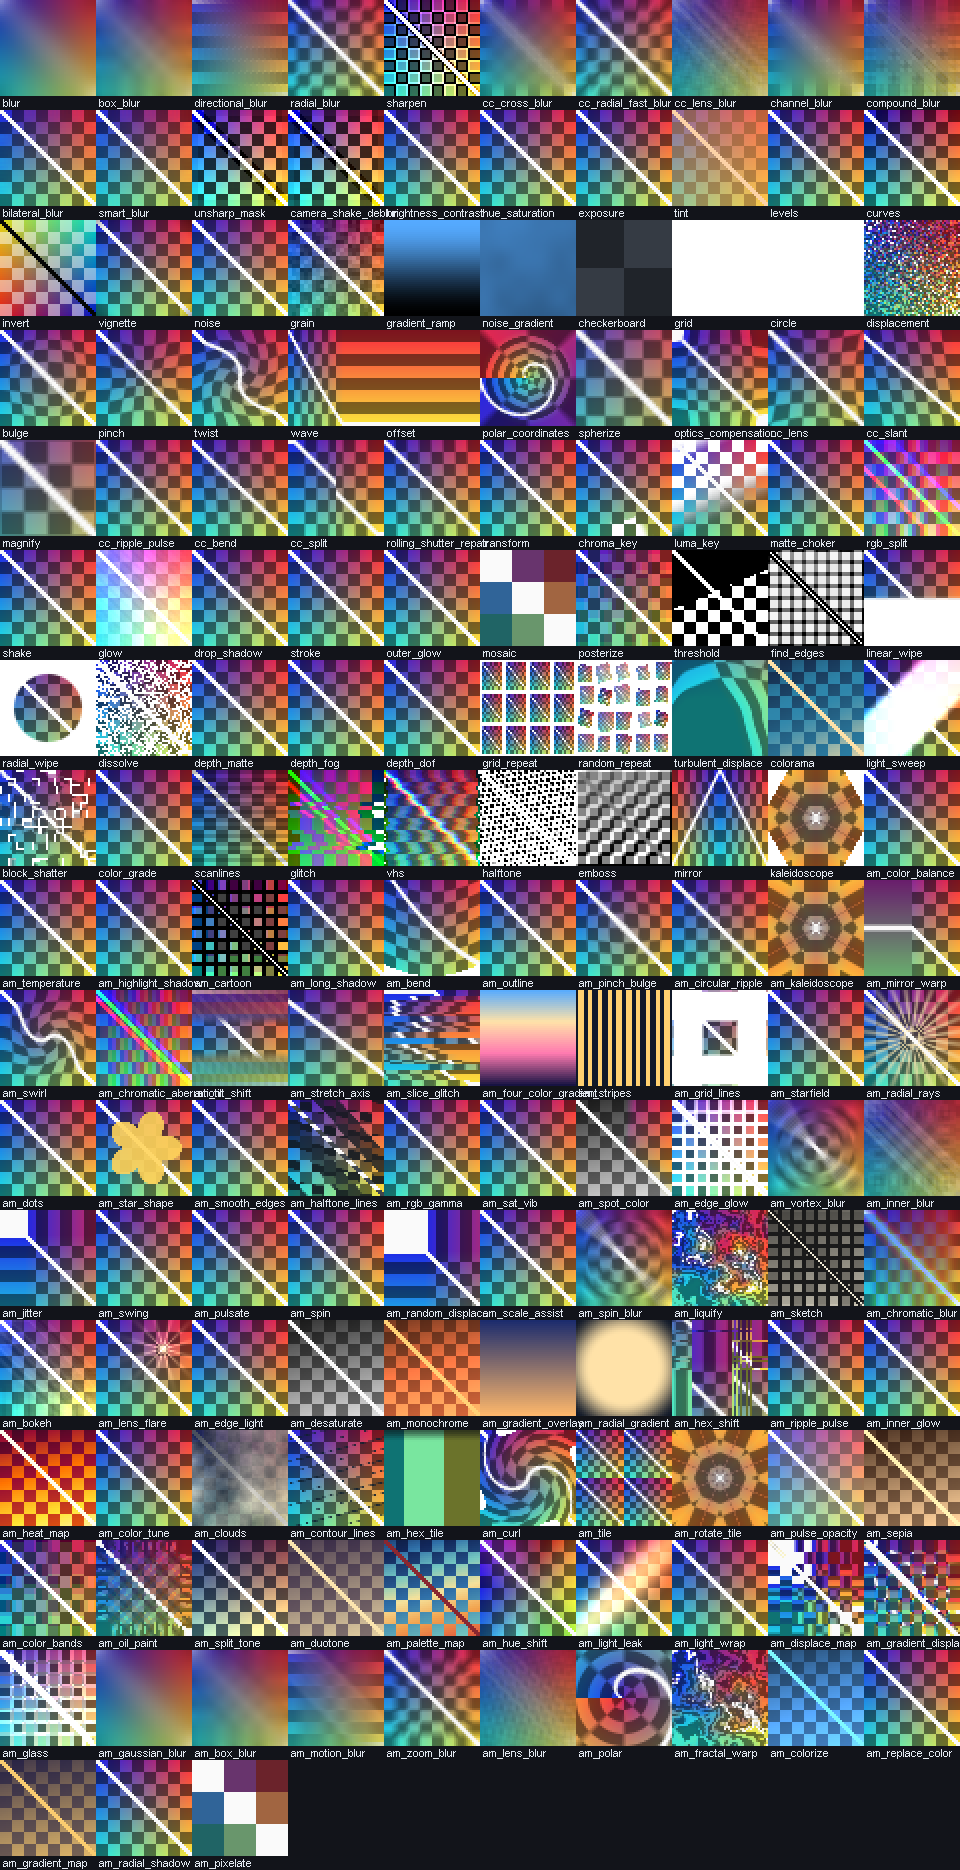
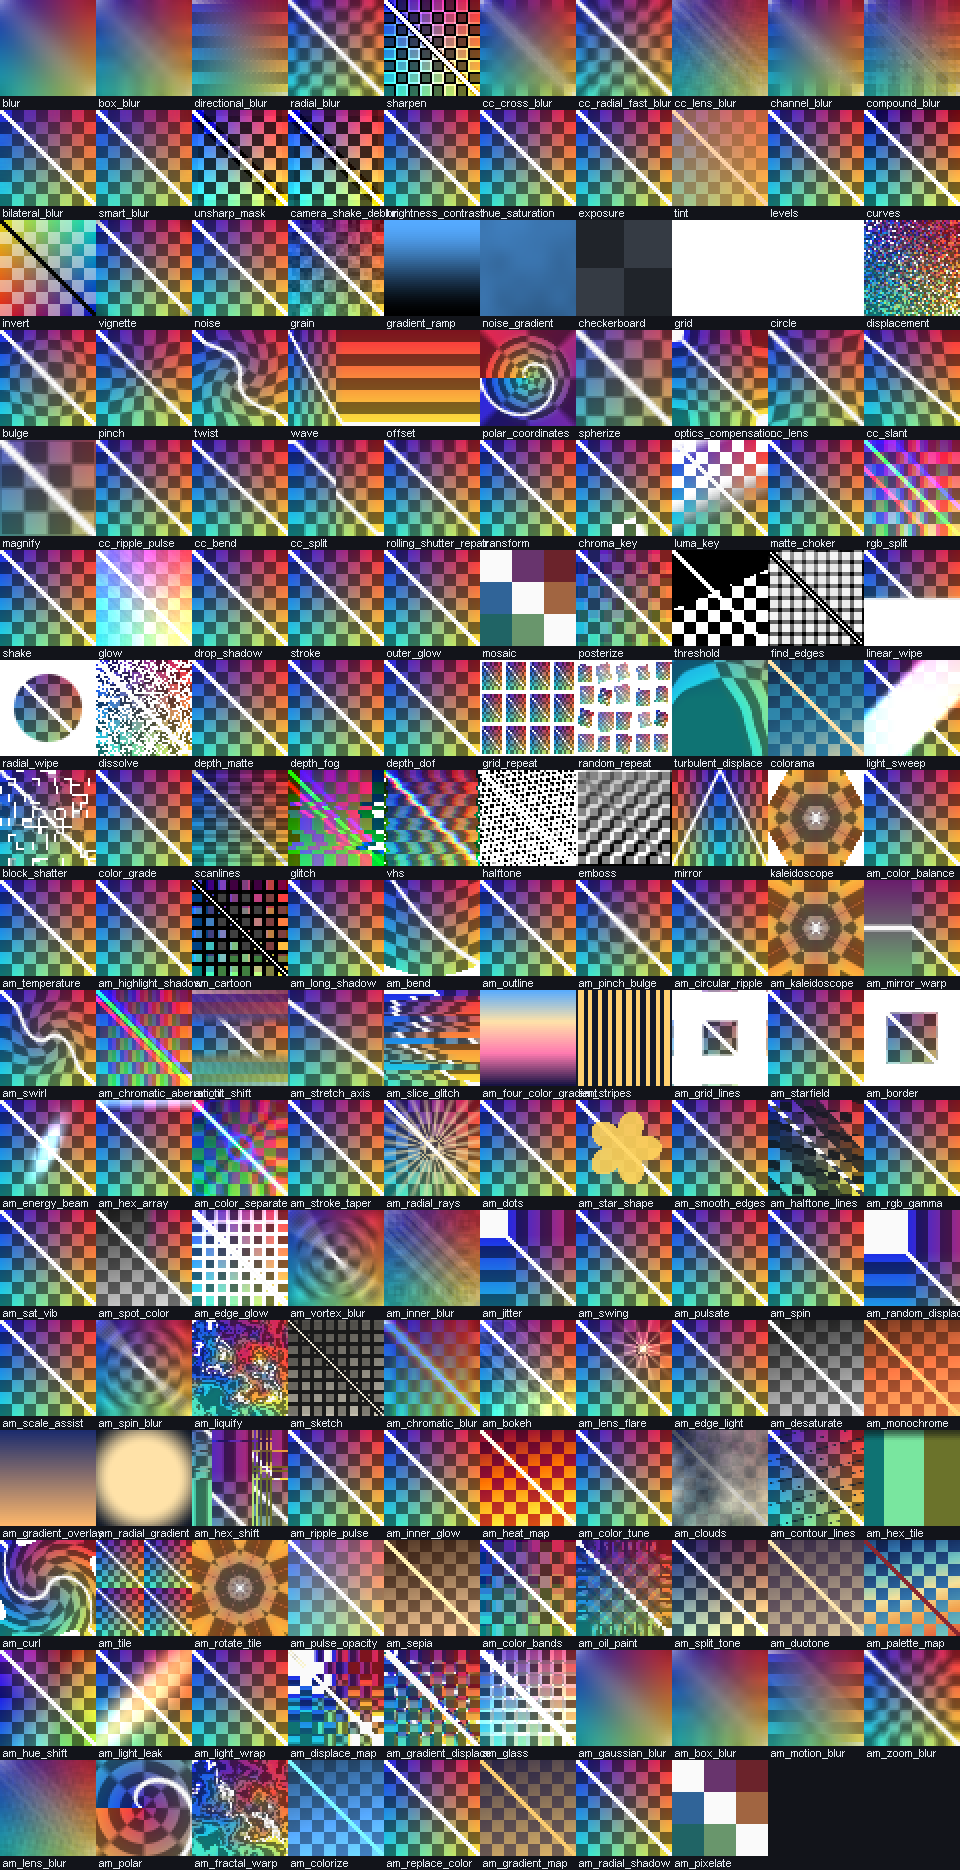
feat(0.45): borders, beams and arrays
- 边框 (width/feather colour border), 描边锥度 (tapered outline) under AM · 绘制.
- 能量束 (glowing beam), 六边形阵列 (hex grid glow) under AM · 生成.
- 彩色分离 (radial RGB split) under AM · 调色.
- 89 reference-compatible effects, all layer space, each with an identity value covered by
  ShaderCompileTest and AmEffectLibraryTest. 321 tests green.
- Release bbsae-0.45.jar (SHA-256 AB71FA4A8B667396710059DB6F4E90777FD7F0FF39B26B25B3BF268889F31AD3).

Changed region(s): [[0.0, 0.5273, 1.0, 1.0]]

diff --git a/src/main/java/dev/bbsae/comp/AmEffectLibrary.java b/src/main/java/dev/bbsae/comp/AmEffectLibrary.java
@@ -495,6 +495,114 @@ public final class AmEffectLibrary
             .p("alpha", "不透明度", 0F, 1F, 1F, 0.01F)
             .p("seed", "随机种子", 0F, 9999F, 0F, 1F));
 
+        add(new AmEffectDef("am_border", "边框", "AM · 绘制", """
+            void main()
+            {
+                vec2 luv = layerUv(vUv);
+                vec4 c = sampleLayer(luv);
+                vec2 px = luv * LayerSize;
+                float distX = min(px.x, LayerSize.x - px.x);
+                float distY = min(px.y, LayerSize.y - px.y);
+                float d = min(distX, distY);
+                float width = max(u_width, 0.0);
+                float feather = max(u_feather, 0.001);
+                float band = 1.0 - smoothstep(width - feather, width, d);
+                fragColor = vec4(mix(c.rgb, u_color.rgb, band * clamp(u_alpha, 0.0, 1.0)), c.a);
+            }
+            """, 0F, "width")
+            .p("width", "边框宽度", 0F, 200F, 12F, 0.5F)
+            .p("feather", "羽化", 0.001F, 50F, 1F, 0.1F)
+            .p("alpha", "不透明度", 0F, 1F, 1F, 0.01F)
+            .c("color", "边框颜色", 0xFFFFFFFF));
+
+        add(new AmEffectDef("am_energy_beam", "能量束", "AM · 生成", """
+            void main()
+            {
+                vec2 luv = layerUv(vUv);
+                vec4 c = sampleLayer(luv);
+                vec2 d = (luv - 0.5) * LayerSize;
+                float a = radians(u_angle);
+                float s = sin(a);
+                float co = cos(a);
+                vec2 rotated = vec2(co * d.x - s * d.y, s * d.x + co * d.y);
+                float offset = u_offset * LayerSize.y;
+                float width = max(u_width, 0.5);
+                float beam = exp(-pow((rotated.y - offset) / width, 2.0));
+                float ends = smoothstep(0.0, 0.15, abs(rotated.x) / max(LayerSize.x, 1.0));
+                float intensity = beam * (1.0 - ends) * clamp(u_intensity, 0.0, 4.0);
+                fragColor = vec4(clamp(c.rgb + u_color.rgb * intensity, 0.0, 1.0), c.a);
+            }
+            """, 0F, "intensity")
+            .p("angle", "角度", -180F, 180F, -25F, 1F)
+            .p("offset", "偏移", -1F, 1F, 0F, 0.01F)
+            .p("width", "宽度", 0.5F, 100F, 14F, 0.5F)
+            .p("intensity", "强度", 0F, 4F, 1.2F, 0.01F)
+            .c("color", "光束颜色", 0xFF7FD4FF));
+
+        add(new AmEffectDef("am_hex_array", "六边形阵列", "AM · 生成", """
+            void main()
+            {
+                vec2 luv = layerUv(vUv);
+                vec4 c = sampleLayer(luv);
+                vec2 spacing = vec2(1.0, 1.7320508) * max(u_size, 4.0);
+                vec2 p = luv * LayerSize / spacing;
+                vec2 a = mod(p, vec2(1.0, 1.7320508)) - vec2(0.5, 0.8660254);
+                vec2 b = mod(p + vec2(0.5, 0.0), vec2(1.0, 1.7320508)) - vec2(0.5, 0.8660254);
+                vec2 local = dot(a, a) < dot(b, b) ? a : b;
+                float edge = max(abs(local.x) / 0.5, abs(local.y) / 0.8660254);
+                float glow = smoothstep(1.0 - clamp(u_glow, 0.01, 1.0), 1.0, edge);
+                float intensity = glow * clamp(u_intensity, 0.0, 3.0);
+                fragColor = vec4(clamp(c.rgb + u_color.rgb * intensity, 0.0, 1.0), c.a);
+            }
+            """, 0F, "intensity")
+            .p("size", "六边形大小", 4F, 200F, 36F, 1F)
+            .p("glow", "线条宽度", 0.01F, 1F, 0.12F, 0.01F)
+            .p("intensity", "强度", 0F, 3F, 0.8F, 0.01F)
+            .c("color", "线条颜色", 0xFF7FE0FF));
+
+        add(new AmEffectDef("am_color_separate", "彩色分离", "AM · 调色", """
+            void main()
+            {
+                vec2 luv = layerUv(vUv);
+                vec2 center = vec2(u_center_x, u_center_y);
+                vec2 d = luv - center;
+                float dist = length(d);
+                vec2 dir = dist > 0.0001 ? d / dist : vec2(0.0);
+                vec2 offset = dir * (u_amount / max(LayerSize, vec2(1.0)));
+                vec4 c = sampleLayer(luv);
+                float r = sampleLayer(luv + offset).r;
+                float b = sampleLayer(luv - offset).b;
+                fragColor = vec4(r, c.g, b, c.a);
+            }
+            """, 0.5F, "amount")
+            .p("amount", "偏移（像素）", 0F, 60F, 6F, 0.1F)
+            .p("center_x", "中心 X", 0F, 1F, 0.5F, 0.01F)
+            .p("center_y", "中心 Y", 0F, 1F, 0.5F, 0.01F));
+
+        add(new AmEffectDef("am_stroke_taper", "描边锥度", "AM · 绘制", """
+            void main()
+            {
+                vec2 luv = layerUv(vUv);
+                vec4 c = sampleLayer(luv);
+                float widthPx = max(u_width * mix(1.0, 1.0 - clamp(u_taper, 0.0, 0.95), clamp(luv.y, 0.0, 1.0)), 0.0);
+                float ring = 0.0;
+
+                for (int i = 0; i < 12; i++)
+                {
+                    float a = float(i) * 0.5235988;
+                    vec2 offset = vec2(cos(a), sin(a)) * (widthPx / max(LayerSize, vec2(1.0)));
+                    ring = max(ring, sampleLayer(luv + offset).a);
+                }
+
+                float outline = clamp(ring - c.a, 0.0, 1.0) * clamp(u_alpha, 0.0, 1.0);
+                fragColor = vec4(mix(c.rgb, u_color.rgb, outline), clamp(c.a + outline, 0.0, 1.0));
+            }
+            """, 0F, "width")
+            .p("width", "宽度", 0F, 40F, 4F, 0.5F)
+            .p("taper", "锥度", 0F, 0.95F, 0.6F, 0.01F)
+            .p("alpha", "不透明度", 0F, 1F, 1F, 0.01F)
+            .c("color", "描边颜色", 0xFF222222));
+
         add(new AmEffectDef("am_radial_rays", "径向光线", "AM · 生成", """
             void main()
             {

diff --git a/src/test/java/dev/bbsae/comp/AmEffectLibraryTest.java b/src/test/java/dev/bbsae/comp/AmEffectLibraryTest.java
@@ -37,7 +37,7 @@ public class AmEffectLibraryTest
             assertTrue(definition.body.contains("fragColor"), "body writes no colour: " + definition.id);
         }
 
-        assertTrue(ids.size() >= 84, "the catalogue should have grown with the procedural batch");
+        assertTrue(ids.size() >= 89, "the catalogue should have grown with the border/beam batch");
     }
 
     @Test
@@ -140,6 +140,11 @@ public class AmEffectLibraryTest
         assertNeutral("am_star_shape", "alpha", 0F);
         assertNeutral("am_smooth_edges", "radius", 0F);
         assertNeutral("am_halftone_lines", "alpha", 0F);
+        assertNeutral("am_border", "width", 0F);
+        assertNeutral("am_energy_beam", "intensity", 0F);
+        assertNeutral("am_hex_array", "intensity", 0F);
+        assertNeutral("am_color_separate", "amount", 0F);
+        assertNeutral("am_stroke_taper", "width", 0F);
 
         CompEffect balance = CompEffectRegistry.create("am_color_balance", 1);
 

diff --git a/README.md b/README.md
@@ -110,15 +110,15 @@ export** without touching the `.dat` film format.
 
 ## Download / Install
 
-1. Download [`bbsae-0.44.jar`](https://github.com/zhongend/bbsae/releases/download/v0.44/bbsae-0.44.jar)
-   from the **v0.44** release (the asset is updated with each source push).
+1. Download [`bbsae-0.45.jar`](https://github.com/zhongend/bbsae/releases/download/v0.45/bbsae-0.45.jar)
+   from the **v0.45** release (the asset is updated with each source push).
 2. Install **Minecraft 1.20.1**, **Fabric Loader 0.16.14+**, **Fabric API 0.92.1+1.20.1** and
    **BBS FS 2.7-1.20.1**.
-3. Put `bbsae-0.44.jar` and the BBS FS jar into the game's `mods/` folder.
+3. Put `bbsae-0.45.jar` and the BBS FS jar into the game's `mods/` folder.
 4. Launch the game, open a film in BBS, select a replay, then use
    **Replay properties → Compositor → Open Film Compositor**.
 
[2 lines of base64/hex data omitted]
 
 ## Gallery
 
@@ -185,6 +185,14 @@ The compositor does not re-encode films or patch `.dat` files. BBS serializes a 
 `RegisterFrameOverlaysEvent` point. That means the same composition appears in BBS's preview and in
 its FFmpeg film export, and BBS keeps ownership of keyframes, undo, project storage and video
 encoding.
+
+## What's new in 0.45 — borders, beams and arrays
+
+- **边框**, **描边锥度** (`AM · 绘制`): width/feather border and a tapered outline.
+- **能量束**, **六边形阵列** (`AM · 生成`): glowing beam and hex grid glow.
+- **彩色分离** (`AM · 调色`): radial RGB split.
+- 89 reference-compatible effects; every body is in layer space with an identity value.
+- 321 tests green.
 
 ## What's new in 0.44 — procedural shapes and edge tools
 

diff --git a/docs/EFFECT-LIBRARY-PLAN.zh.md b/docs/EFFECT-LIBRARY-PLAN.zh.md
@@ -45,7 +45,7 @@
 新增三层，效果不再需要写进 `EffectRenderer` 的巨型 switch：
 
 - `comp/AmEffectDef`：id、显示名、分类、参数表（float/color）、`main()` 片段、零点参数。
-- `comp/AmEffectLibrary`：84 个效果的定义（色彩平衡、色温、高光与阴影、卡通、长阴影、
+- `comp/AmEffectLibrary`：89 个效果的定义（色彩平衡、色温、高光与阴影、卡通、长阴影、
   弯曲、描边、收缩与膨胀、圆形波纹、万花筒、镜像、旋转扭曲、像素化、极坐标、分形扭曲、
   色彩化、替换颜色、渐变映射、径向阴影），参数名/范围/默认值与参考应用一致。
 - `client/render/AmEffectRenderer`：按定义拼装完整 fragment（标准 uniform + 参数 uniform +
@@ -175,6 +175,7 @@ switch 中拆出来：
 4.23 **调色/绘制/模糊批**（RGB 伽马、饱和度与自然饱和度、单色强调、发光边缘、漩涡模糊、
     内模糊；已完成）
 4.24 **程序化/绘制批**（径向光线、点阵、星形、平滑边缘、半调线；已完成）
+4.25 **边框/光束/阵列批**（边框、能量束、六边形阵列、彩色分离、描边锥度；已完成）
     - 时间驱动效果使用 `Time`（合成时间），暂停/导出时行为一致；
     - 缩放辅助使用 `neutralWhen` 在 X/Y 缩放都为 1 时判定为原图。
 4.20 **图层空间适配（第一性原理修正）**
